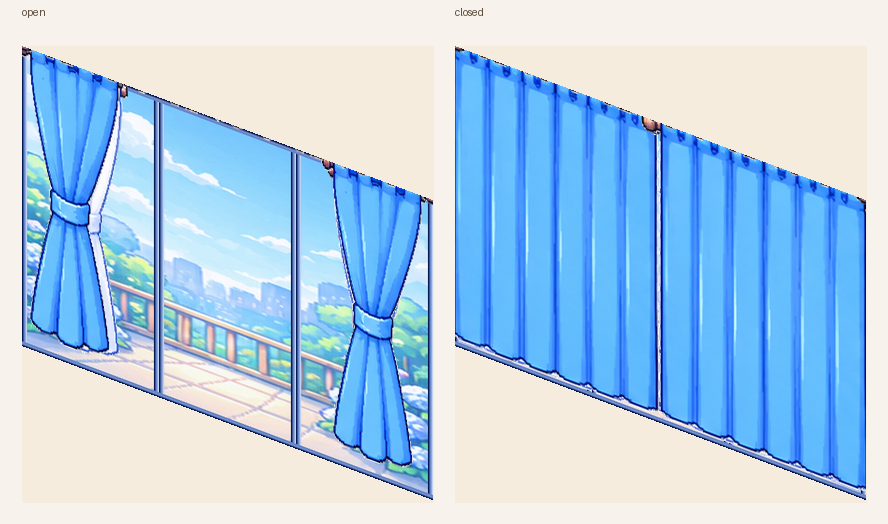
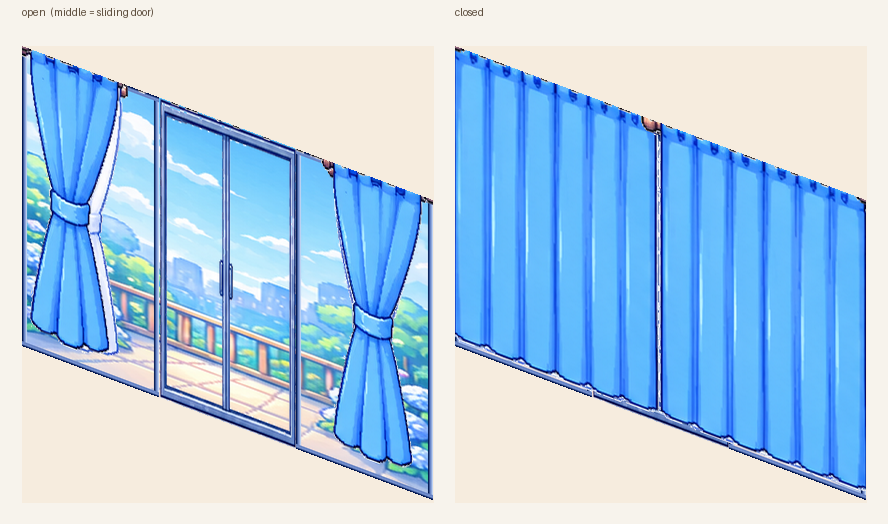
落地窗中间那段换成 W-01 推拉门（win-door.png），左右仍是普通门扇；测试与文档同步成三段结构

Changed region(s): [[0.152, 0.1832, 0.3345, 0.855], [0.6689, 0.7328, 0.8209, 0.855], [0.0608, 0.0, 0.1824, 0.0305]]

diff --git a/test/model.test.js b/test/model.test.js
@@ -537,23 +537,35 @@ assert.equal(zh('status.remain', { seconds: 30 }).includes('30'), true)
 {
   const root = path.join(here, '..', 'data', 'maps', 'living', 'furniture')
   const win = JSON.parse(readFileSync(path.join(root, 'living_window.json'), 'utf8'))
-  const frame = win.parts.find((part) => part.id === 'frame')
-  assert.ok(frame, '有框体')
-  assert.equal(frame.sprite.src, 'win-panel.png', '框体用推拉门单元素材')
-  assert.equal(frame.sprite.repeat.count, 3, '框体拼三段，拉长落地窗')
-  assert.equal(frame.sprite.repeat.dx, 137, '每段等距拼接')
-  assert.ok(frame.sprite.rect[2] * frame.sprite.repeat.count >= 380, '总宽度够长')
+  const frames = win.parts.filter((part) => /^frame-/.test(part.id))
+  assert.equal(frames.length, 3, '窗户分成三段')
+  const midPanel = win.parts.find((part) => part.id === 'frame-mid')
+  assert.equal(midPanel.sprite.src, 'win-door.png', '中间那段用 W-01 推拉门')
+  const sidePanels = frames.filter((part) => part.id !== 'frame-mid')
+  assert.ok(sidePanels.every((part) => part.sprite.src === 'win-panel.png'), '两侧是普通门扇')
+  const span = (list) => {
+    const x0 = Math.min(...list.map((part) => part.sprite.rect[0]))
+    const x1 = Math.max(...list.map((part) => part.sprite.rect[0] + part.sprite.rect[2] * ((part.sprite.repeat && part.sprite.repeat.count) || 1)))
+    return [x0, x1]
+  }
+  const [winX0, winX1] = span(frames)
+  assert.ok(winX1 - winX0 >= 380, '总宽度够长')
+  // 三段首尾相接
+  const sorted = [...frames].sort((a, b) => a.sprite.rect[0] - b.sprite.rect[0])
+  for (let i = 1; i < sorted.length; i += 1) {
+    assert.equal(sorted[i - 1].sprite.rect[0] + sorted[i - 1].sprite.rect[2], sorted[i].sprite.rect[0], '门扇段首尾相接')
+  }
   const sky = win.parts.filter((part) => /^sky-/.test(part.id))
   assert.ok(sky.length >= 3, '天空还是按时间段分层')
-  assert.ok(sky.every((part) => part.z < frame.z), '天空在框体下面')
+  assert.ok(sky.every((part) => part.z < midPanel.z), '天空在门扇下面')
 }
 // 关帘要能盖住整扇窗（窗户拉长后，帘子宽度也得跟上，不然中间漏缝）
 {
   const root = path.join(here, '..', 'data', 'maps', 'living', 'furniture')
   const win = JSON.parse(readFileSync(path.join(root, 'living_window.json'), 'utf8'))
-  const frame = win.parts.find((part) => part.id === 'frame')
-  const frameX0 = frame.sprite.rect[0]
-  const frameX1 = frameX0 + frame.sprite.rect[2] * frame.sprite.repeat.count
+  const frames = win.parts.filter((part) => /^frame-/.test(part.id))
+  const frameX0 = Math.min(...frames.map((part) => part.sprite.rect[0]))
+  const frameX1 = Math.max(...frames.map((part) => part.sprite.rect[0] + part.sprite.rect[2]))
   for (const key of ['curtain-blue-closed', 'curtain-white-closed']) {
     const left = win.parts.find((part) => part.id === `${key}-left`)
     const right = win.parts.find((part) => part.id === `${key}-right`)

diff --git a/test/host.test.js b/test/host.test.js
@@ -455,7 +455,8 @@ for (const door of doors) {
 // 窗户由多个部件拼成：天空（按时段）+ 框 + 杆 + 窗帘（按开关）
 const winDef = JSON.parse((await call('/fishhome/data/maps/living/furniture/living_window.json')).body)
 const winParts = winDef.parts || []
-assert.ok(winParts.some((x) => x.id === 'frame'), '窗户要有框')
+assert.equal(winParts.filter((x) => /^frame-/.test(x.id)).length, 3, '窗户分左中右三段')
+assert.equal(winParts.find((x) => x.id === 'frame-mid').sprite.src, 'win-door.png', '中间那段是 W-01 推拉门')
   // 窗帘杆拆成「球头 + 中段循环 + 球头(镜像)」，横跨整条窗
   const rodLeft = winParts.find((x) => x.id === 'rod-left')
   const rodMid = winParts.find((x) => x.id === 'rod-mid')
@@ -467,9 +468,9 @@ assert.ok(winParts.some((x) => x.id === 'frame'), '窗户要有框')
   {
     const rodX0 = rodLeft.sprite.rect[0]
     const rodX1 = rodRight.sprite.rect[0] + rodRight.sprite.rect[2]
-    const frameRect = winParts.find((x) => x.id === 'frame').sprite
-    const winX0 = frameRect.rect[0]
-    const winX1 = winX0 + frameRect.rect[2] * frameRect.repeat.count
+    const frames = winParts.filter((x) => /^frame-/.test(x.id))
+    const winX0 = Math.min(...frames.map((x) => x.sprite.rect[0]))
+    const winX1 = Math.max(...frames.map((x) => x.sprite.rect[0] + x.sprite.rect[2]))
     assert.ok(rodX0 <= winX0 && rodX1 >= winX1, '杆子比窗户宽（两头球头露出来）')
   }
 const skies = winParts.filter((x) => x.id.startsWith('sky-'))
@@ -484,7 +485,8 @@ assert.ok(curtains.some((x) => x.visibleWhen && x.visibleWhen.state && x.visible
 const blueZ = curtains.filter((x) => /blue/.test(x.id)).map((x) => Number(x.z) || 0)
 const whiteZ = curtains.filter((x) => /white/.test(x.id)).map((x) => Number(x.z) || 0)
 assert.ok(Math.min(...blueZ) > Math.max(...whiteZ), '蓝帘始终压在白纱上面（蓝在最上层）')
-assert.ok(blueZ.every((z) => z > Number(winParts.find((x) => x.id === 'frame').z)), '窗帘在窗框之上')
+const frameZ = Number(winParts.find((x) => x.id === 'frame-mid').z)
+assert.ok(blueZ.every((z) => z > frameZ), '窗帘在窗框之上')
 assert.ok(winDef.surface && winDef.surface.attach === 'wallRight', '整扇窗贴在右墙（surface）')
 // 贴面由 surface 统一声明，部件本身不再各写 attach，保证「先排位置再整体切变」
 assert.ok(winParts.every((x) => !x.sprite || x.sprite.attach === undefined), '部件不单独写 attach')

diff --git a/AGENTS.md b/AGENTS.md
@@ -188,7 +188,7 @@ index.js        插件入口（返回 inject/apply）
 
 **窗帘杆**：`win-rod.png` 两头是球头，剪掉球头得到可无缝循环的 `win-rod-mid.png`（环扣周期 33px，切 3 个周期 = 99px），数据里用「球头 + 中段 repeat + 镜像球头」三件套横跨整条窗（`flipX` 做右端）。
 
-**窗框素材**：客厅落地窗是「一段门扇 × N」拼出来的——`win-panel.png` 是单段（细立柱 + 透明玻璃），`living_window.json` 里用 `repeat: { count: 3, dx: 137 }` 拼成 411px 的长窗；天空用横版全景 `win-sky-wide-*.png`——**整体拉伸，不要平铺**：背景里有太阳/月亮，镜像平铺会变成「多个太阳」（踩过）。关帘时两片帘子必须在中间合拢盖住整条窗——**注意素材里帘身左右有留白**（蓝帘 15/14px、白纱 7/6px，顶部还有杆子），按 rect 宽度对齐会露出 30px 的缝；要按帘身占比反推 rect 宽度（现在两片各画到 241/242 宽、在 x≈935 处交叠）。想把窗户拉更长：改 `count`、同步改天空 rect 宽度、帘子宽度和 `scene.light.sources` 的 spread/reach。
+**窗框素材**：客厅落地窗分**左中右三段**（各 137px，总 411px）——`win-panel.png` 是普通细门扇（透明玻璃），中间那段是 `win-door.png`（W-01 双开推拉门：剪掉灰色玻璃只留蓝色骨架，天空能透出来）。三段 rect 首尾相接；天空用横版全景 `win-sky-wide-*.png`——**整体拉伸，不要平铺**：背景里有太阳/月亮，镜像平铺会变成「多个太阳」（踩过）。关帘时两片帘子必须在中间合拢盖住整条窗——**注意素材里帘身左右有留白**（蓝帘 15/14px、白纱 7/6px，顶部还有杆子），按 rect 宽度对齐会露出 30px 的缝；要按帘身占比反推 rect 宽度（现在两片各画到 241/242 宽、在 x≈935 处交叠）。想把窗户拉更长：改 `count`、同步改天空 rect 宽度、帘子宽度和 `scene.light.sources` 的 spread/reach。
 
 **坑**：发光件必须画在**光源层**（`layer: "light"` 或代码里推入 `lightParts`），否则会被家具精灵本身盖住。
 

diff --git a/README.md b/README.md
@@ -87,7 +87,7 @@ dsh plugin install D:\dschat\dsh-fishhome
 - **你在 DSH 里干活时，她会自己坐到书桌前忙**（work 权重 ×3.6 左右，发呆 / 睡觉权重被压低）
 - 会话开始 / 结束 / 出错会写进「屋子里的动静」，心情也跟着变
 - 没有会话时一切照旧：她自己在屋里转悠
-- **推拉门落地窗**：客厅落地窗由三段推拉门扇拼接而成（`win-panel.png` + `repeat`），配横版全景天空（`win-sky-wide-*.png`），窗帘在两端。
+- **推拉门落地窗**：客厅落地窗由三段门扇拼接而成（中间是 W-01 推拉门 `win-door.png`，两侧是 `win-panel.png`），配横版全景天空（`win-sky-wide-*.png`），窗帘在两端。
 - **出门的门**：卧室 / 客厅各有一扇门（`door-whale.png`），点一下切到另一间屋，她会抬头送你一句。
 - **小屋便条**：会话卡下面的输入框可以跟她说一句话——她先在气泡里回你一句（`data/replies.json`）；
   能拿到客户端 `sessions` 服务时，这句话会带 `【家园】` 前缀**作为一条用户消息发进会话**（等同聊天框发送，LLM 会回）；
